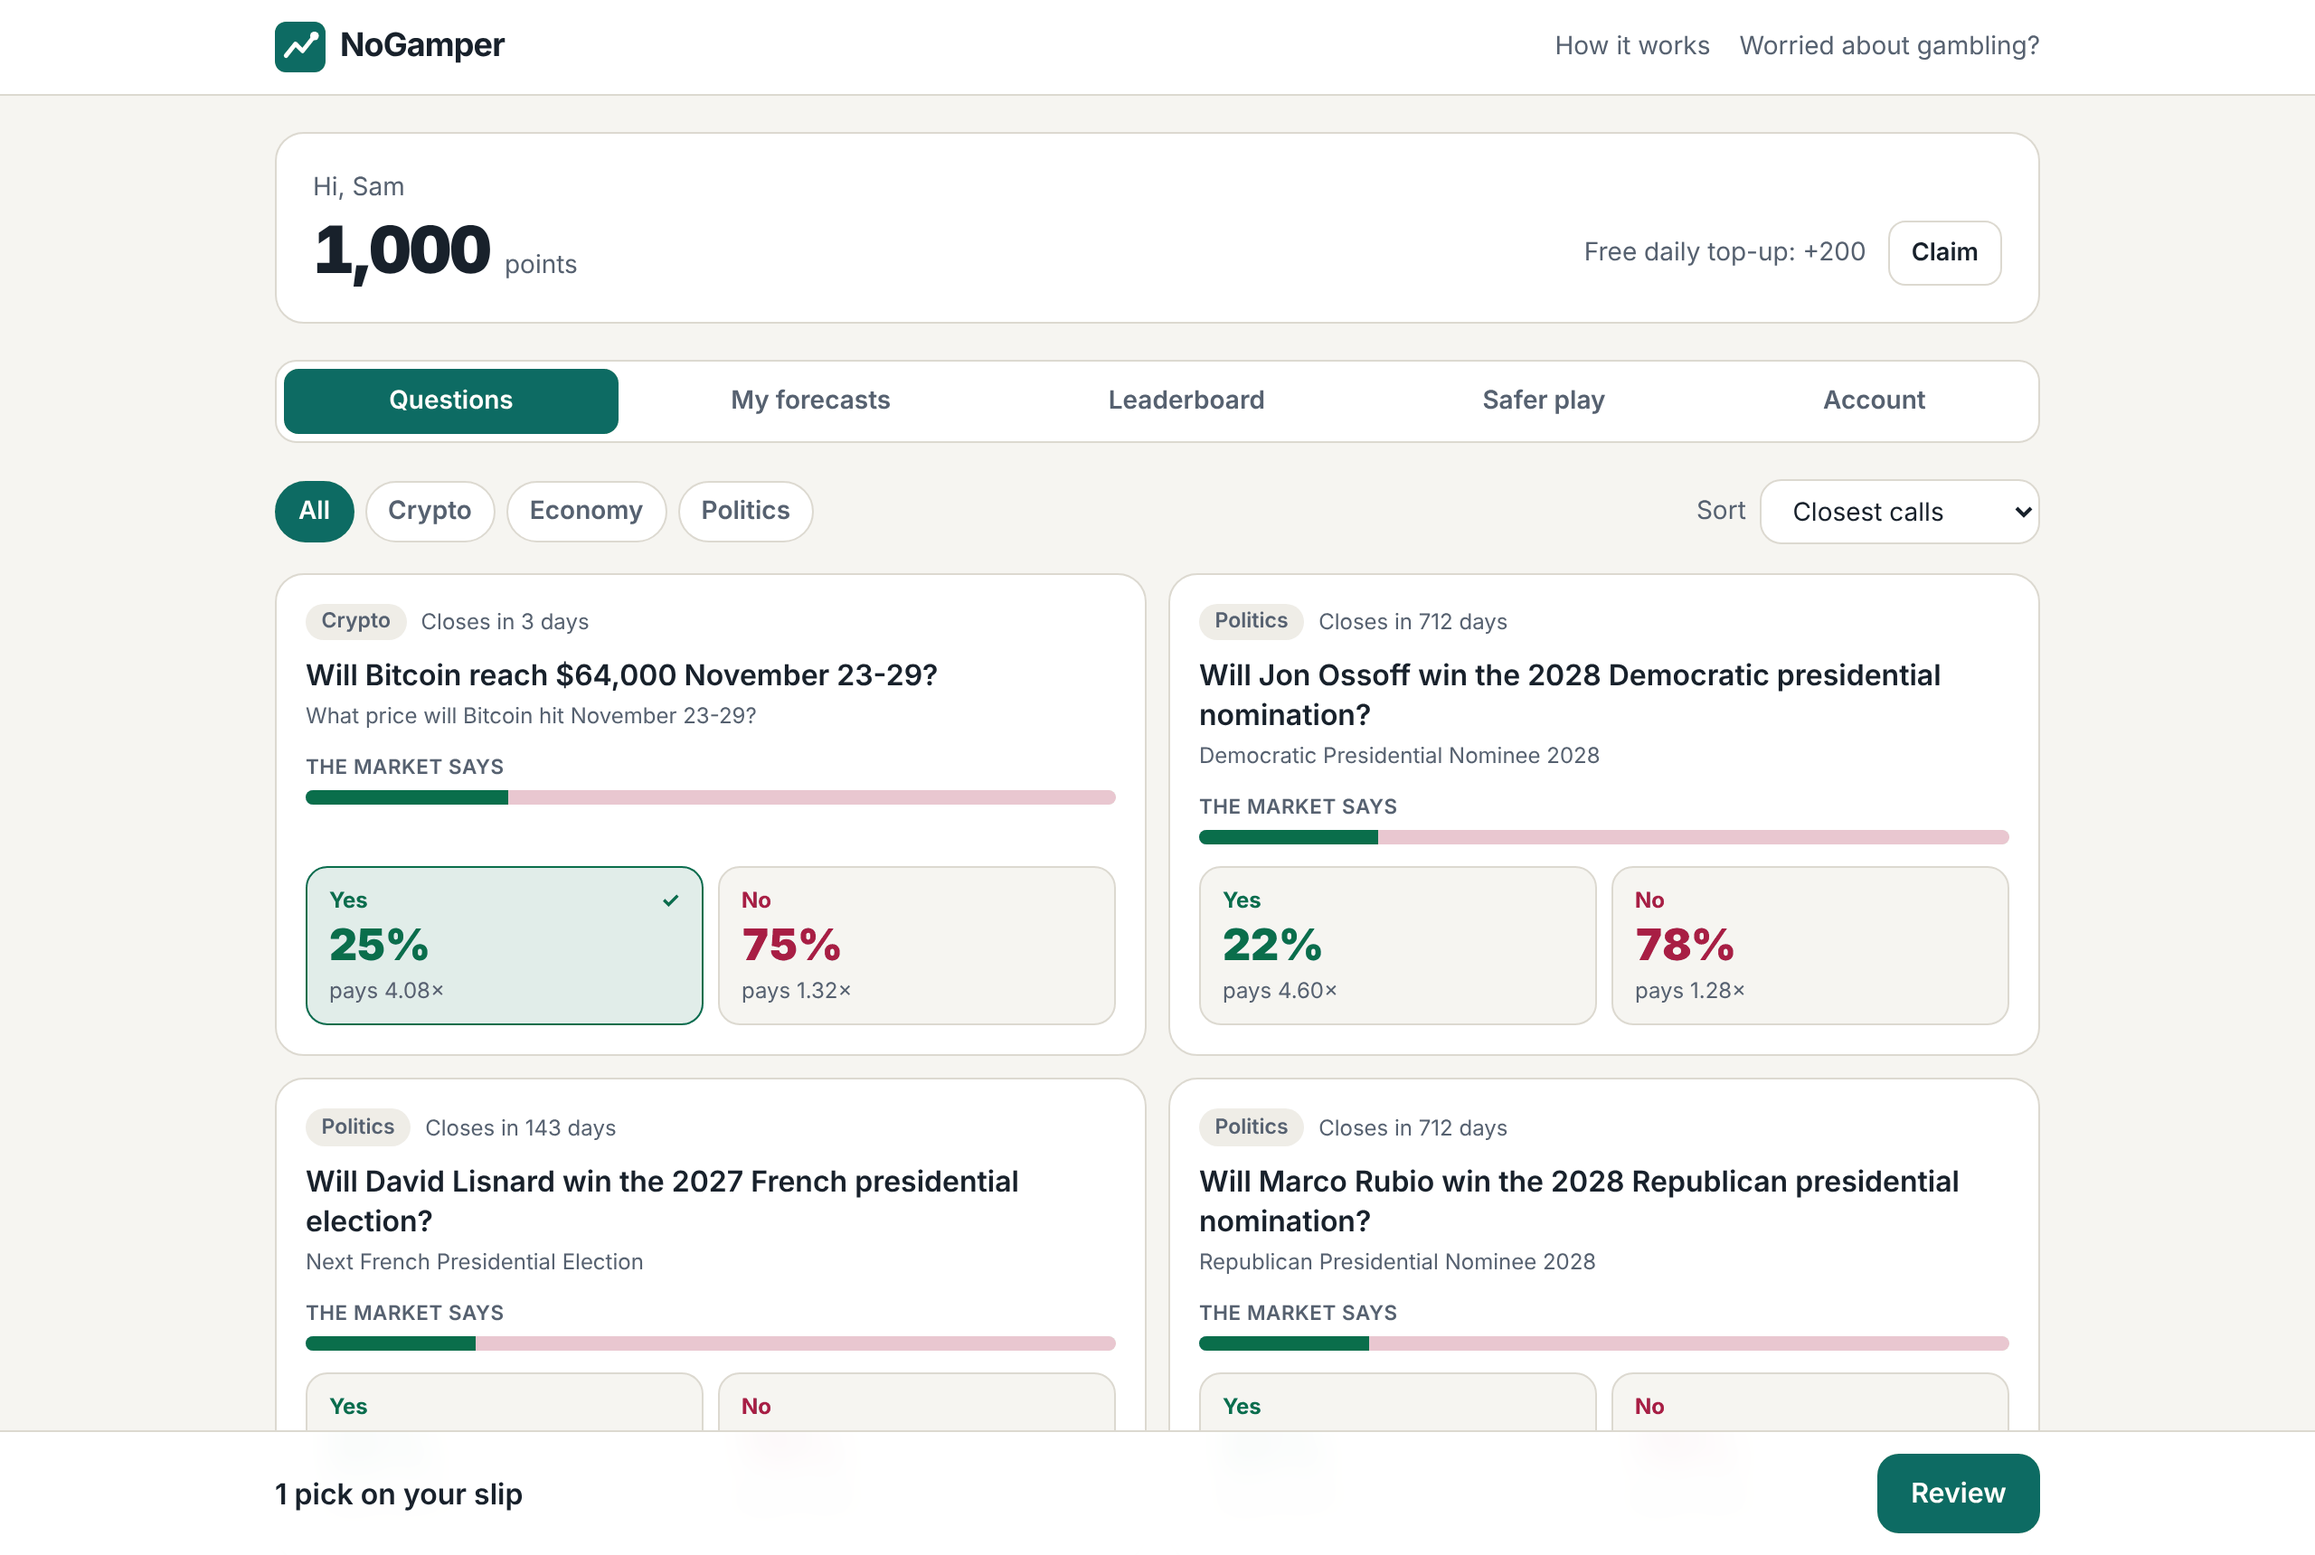
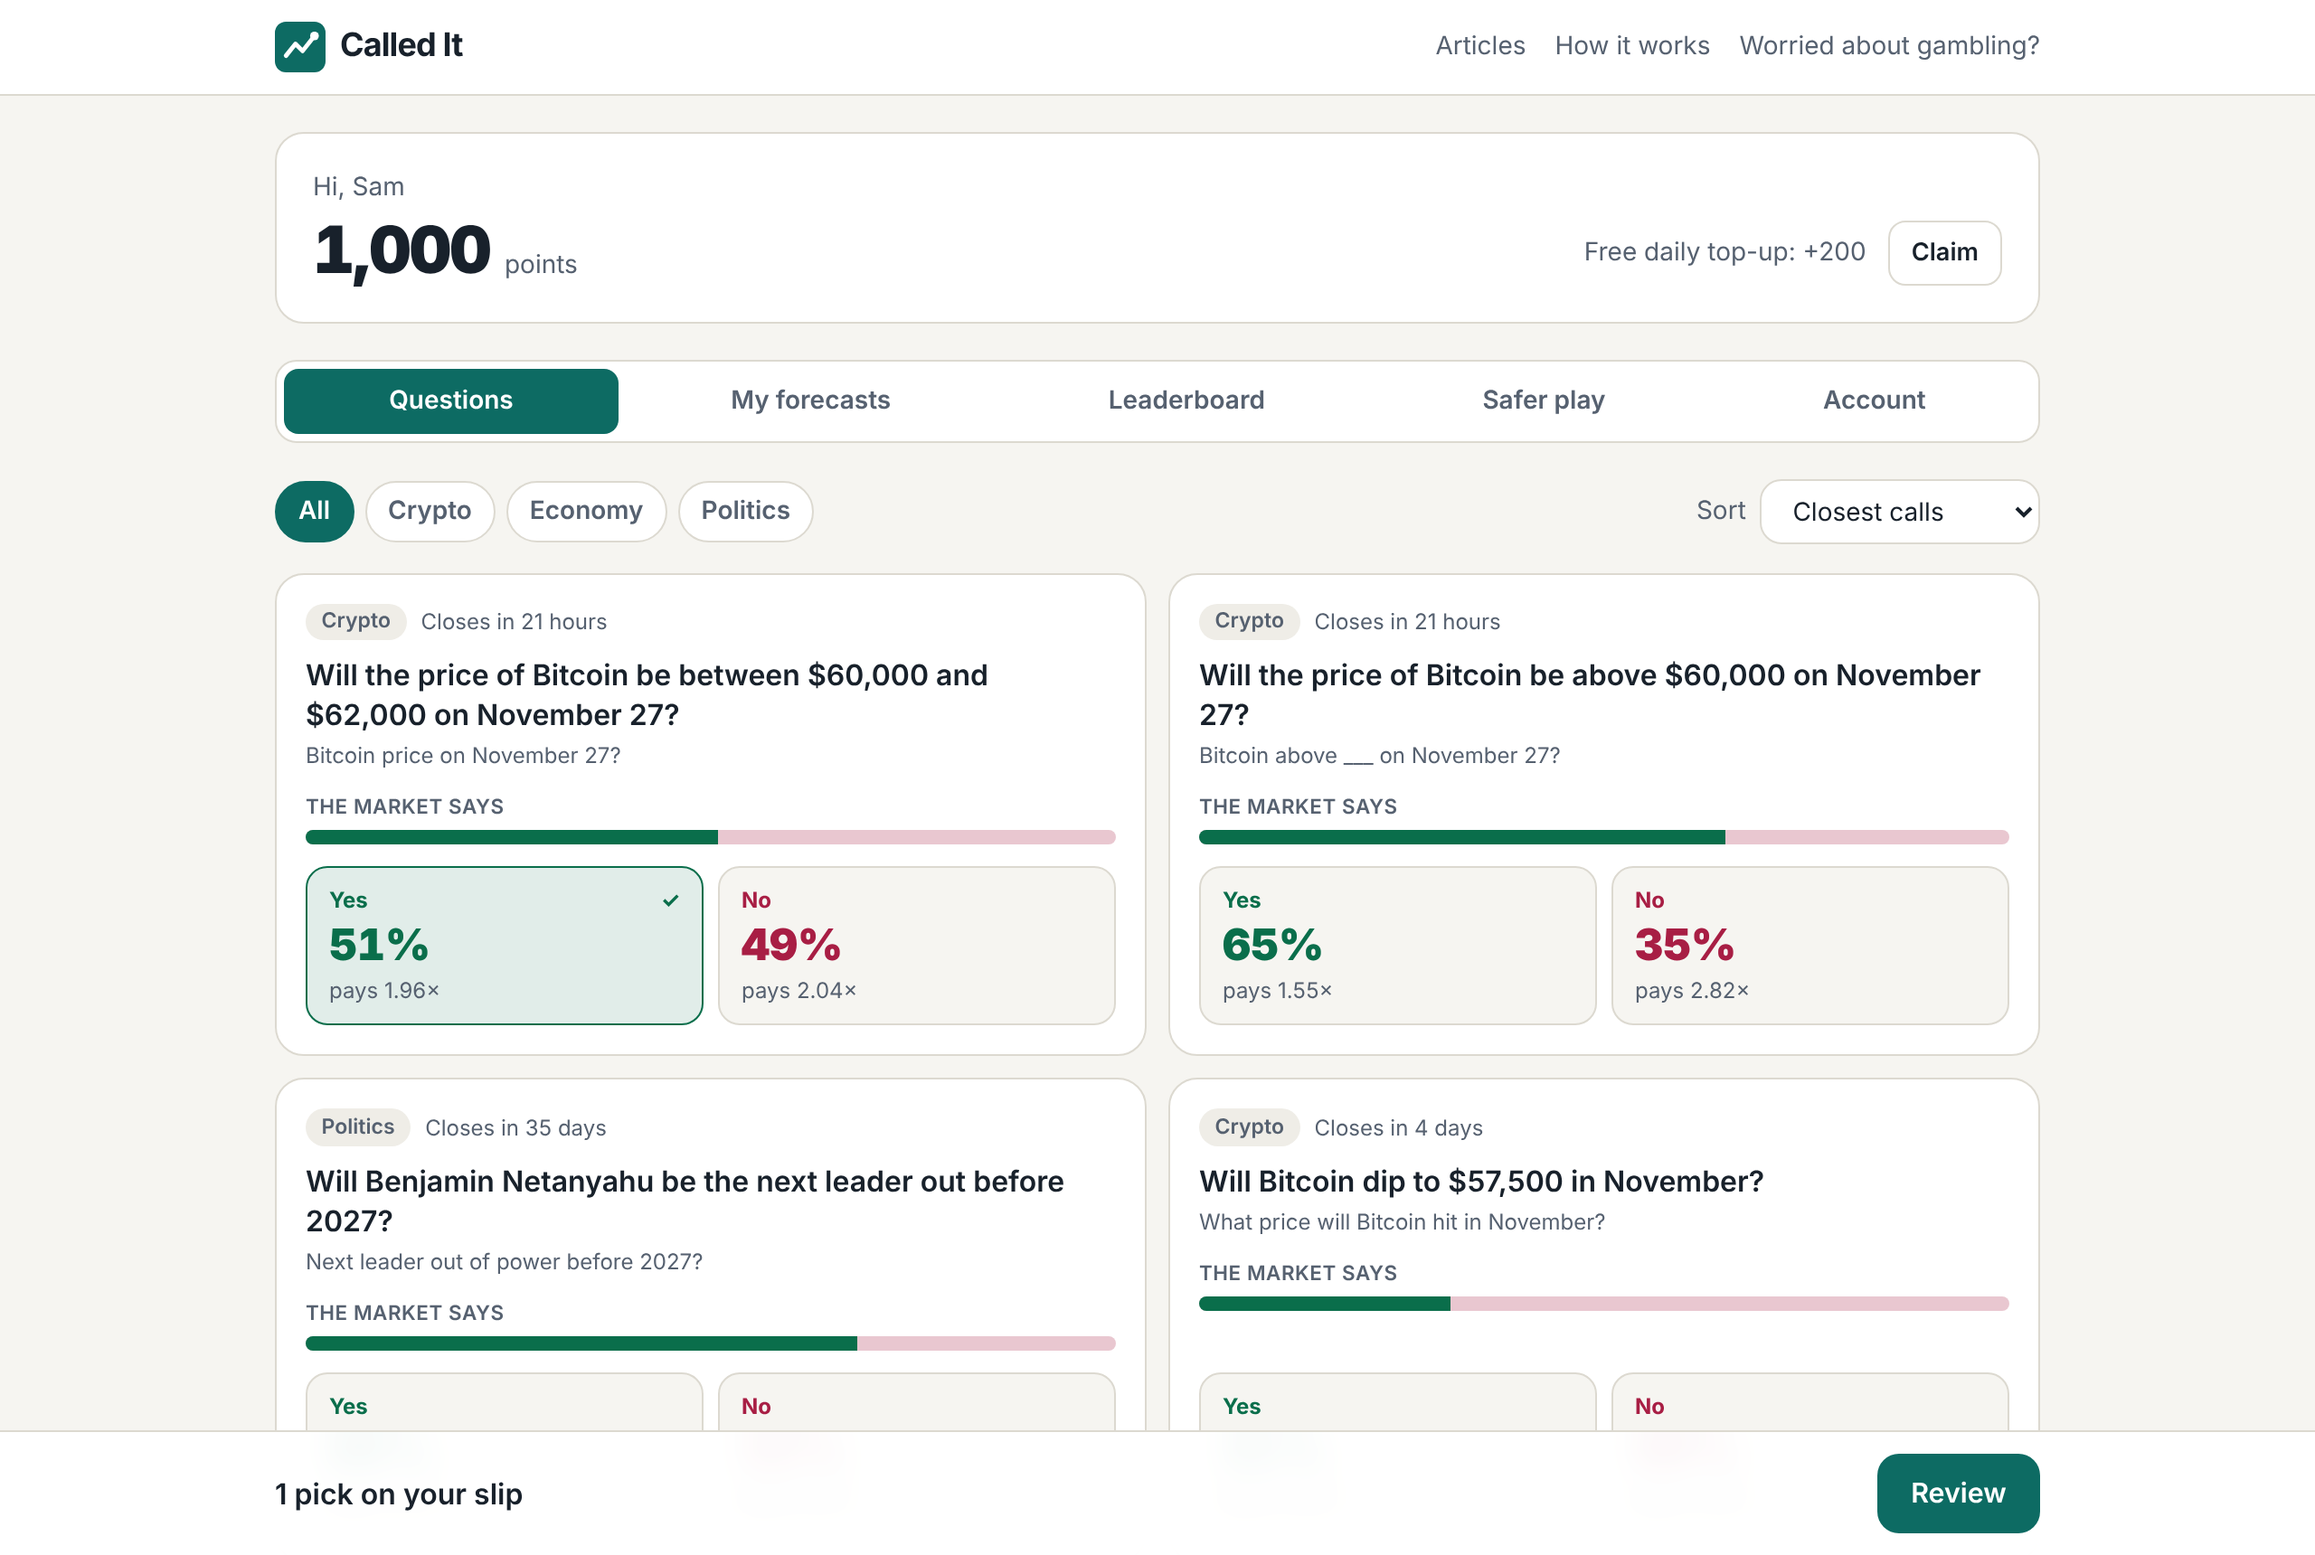
Name the product Called It
NoGamper was a working title. The name the site shows now defaults to
Called It: the header, page titles, link previews, structured data and every
sentence that names the product read it from one setting.

The README title and the two screenshots that show the header are updated to
match. The repository keeps its old name, so the link to the source code is
unchanged.

Claude-Session: https://claude.ai/code/session_01XoM4McsJwXn4egYS6S31Mx

diff --git a/apps/web/lib/copy.ts b/apps/web/lib/copy.ts
@@ -9,7 +9,7 @@
  * Longer prose for the landing, help and about pages lives in ./content.ts.
  */
 
-export const APP_NAME = process.env.NEXT_PUBLIC_APP_NAME ?? "NoGamper";
+export const APP_NAME = process.env.NEXT_PUBLIC_APP_NAME ?? "Called It";
 
 export const t = {
   appName: APP_NAME,

diff --git a/README.md b/README.md
@@ -1,4 +1,4 @@
-# NoGamper
+# Called It
 
 **Prediction markets without the gambling.** A free forecasting game: real
 questions about the news, live odds taken from real markets, and points that
